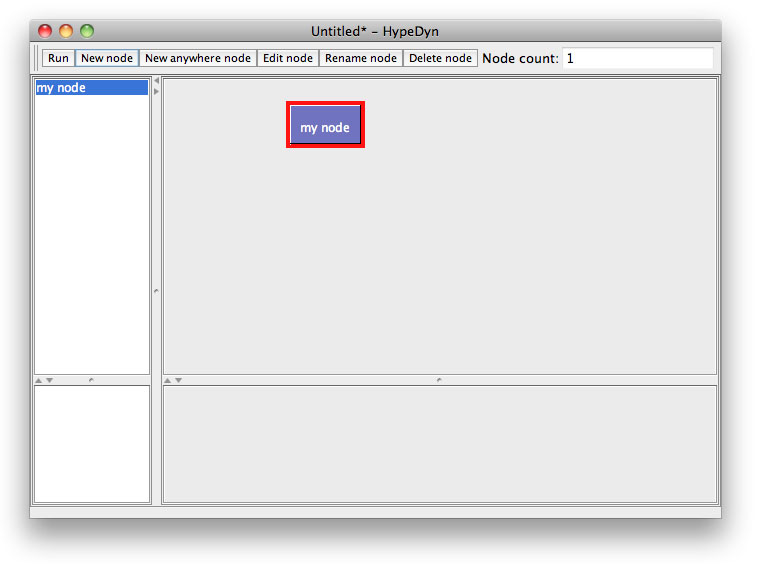
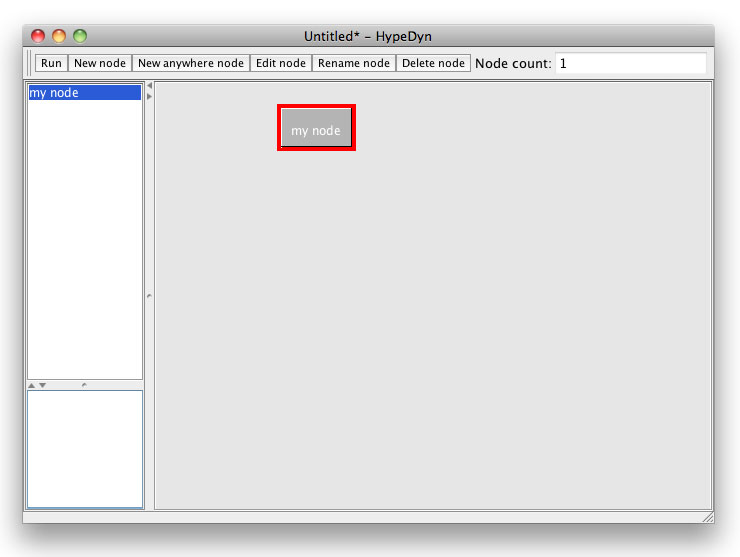
update help files

Changed region(s): [[0.0, 0.0305, 0.9946, 1.0]]

diff --git a/src/hypedyn/help/main_window.html b/src/hypedyn/help/main_window.html
@@ -39,8 +39,7 @@
     
     <p>The toolbar at the top of the window contains commonly used functions. These functions are also acccessible from the menubar.</p>
     
-    <p>The <em>node list</em> at the top left of the main window contains a list of all the nodes in the story. The <em>map view</em> to the right of the node list contains two
-    panes. The top pane displays all the regular nodes, whereas the lower pane displays all the anywhere nodes. The map view may be zoomed in and out using the menu items in the <b>View</b> menu. At the lower left, below the node list, is the <em>fact list</em>, which displays all the facts in the story.</p>	
+    <p>The <em>node list</em> at the top left of the main window contains a list of all the nodes in the story. The <em>map view</em> to the right of the node list displays all the nodes together with the links between the nodes. The map view may be zoomed in and out using the menu items in the <b>View</b> menu. At the lower left, below the node list, is the <em>fact list</em>, which displays all the facts in the story.</p>	
     
     <p><h4>Nodes</h4></p>
     
@@ -48,7 +47,7 @@
     
 <p><img src="images/new_node1.jpg" alt="new node" width="250"/><img src="images/new_node2.jpg" alt="new node" width="250"/></p>
 
-<p>To create a new <em>anywhere node</em>, use the <b>New Anywhere Node</b> button or the <b>New Anywhere Node</b> menu item. Anywhere nodes appear in the lower pane in the map view. Anywhere nodes will be discussed in more detail in the <a href="anywhere_nodes.html" title="Anywhere Nodes">Anywhere Nodes</a> section.</p>
+<p>To create a new <em>anywhere node</em>, use the <b>New Anywhere Node</b> button or the <b>New Anywhere Node</b> menu item. Anywhere nodes also appear in the map view, and are coloured a darker grey than regular nodes. Regular nodes can be changed into anywhere nodes, and vice versa, at any time. Anywhere nodes will be discussed in more detail in the <a href="anywhere_nodes.html" title="Anywhere Nodes">Anywhere Nodes</a> section.</p>
 
     <p>Nodes may be selected by clicking on the node in the node list or in the map view. The selected node will be highlighted in both the node list and the map view. Nodes may be dragged around and repositioned in the map view. Note that the position of nodes in the map view is for the author's reference only, and has no impact on the story. You can arrange nodes as you like, to help keep track of the structure of your story and the relationship between nodes.</p>
     

diff --git a/src/hypedyn/help/rule_editor.html b/src/hypedyn/help/rule_editor.html
@@ -63,11 +63,9 @@
     
 	<p><img src="images/actions.jpg" width=600 alt="Actions" /></p>
 
-    <p>The types of actions available include <em>Follow link to</em>, <em>Show in popup</em>, <em>Update text</em>, and <em>Update fact</em>. <em>Follow link to</em> is activated when a link is clicked, and takes the reader to the specified node. <em>Show in popup</em> shows the specified node in a popup, overlaid on top of the current node. <em>Update text</em> and <em> Update fact</em> will be discussed in the <a href="conditional_text.html" title="Conditional text">Conditional Text</a> and <a href="facts.html" title="Facts">Facts</a> sections.</p> 
-    
-    <p>For node rules, and for link rules on anywhere nodes, the <em>Follow link to</em> and <em>Show in popup</em> actions are not available.</p>
-    
-    <p><h4>Triggering rules</h4></p>
+    <p>The types of actions available include <em>Follow link to</em>, <em>Show in popup</em>, <em>Update text</em>, <em>Update fact</em>, and <em>Enable links to this node from anywhere</em>. <em>Follow link to</em> is activated when a link is clicked, and takes the reader to the specified node. <em>Show in popup</em> shows the specified node in a popup, overlaid on top of the current node. </p>
+    <p><em>Update text</em> and <em> Update fact</em> will be discussed in the <a href="conditional_text.html" title="Conditional text">Conditional Text</a> and <a href="facts.html" title="Facts">Facts</a> sections. <em>Enable links to this node from anywhere</em> will be discussed in the <a href="anywhere_nodes.html" title="Anywhere Nodes">Anywhere Nodes</a> section. For node rules, the <em>Follow link to</em> and <em>Show in popup</em> actions are not available. <em>Enable links to this node from anywhere</em> is only available in node rules.</p>
+<p><h4>Triggering rules</h4></p>
         
     <p>When a rule is triggered depends on whether it is associated with a link or a node, and what type of actions are contained in the rule. For node rules, all rules are triggered when a node is entered. For link rules, any rules containing <em>Follow link to</em>, <em>Show popup in</em> and <em>Update fact</em> actions are triggered when a link is clicked. Any rules containing the <em>Update text</em> action are triggered when a node is entered or refreshed. When a node is entered, node rules are triggered before link rules.</p>
 

diff --git a/src/hypedyn/help/anywhere_nodes.html b/src/hypedyn/help/anywhere_nodes.html
@@ -44,7 +44,7 @@
     
     <p><img src="images/anywhere_nodes.jpg" width=600 alt="Anywhere nodes" /></p>
 
-    <p>Note that anywhere nodes can contain links with rules having <em>Update text</em> and <em>Update fact</em> actions, but may not have <em>Follow link to</em> or <em>Show in popup</em> actions. As a result, once a reader "enters" an anywhere node, there is no way for the reader to get back to the "normal" nodes in a story other than by using the <b>Back</b> button.</p>
+    <p>Note that a regular node will become an anywhere node if at least one of its node rules contains the <em>Enable links to this node from anywhere</em> action. If all the <em>Enable links to this node from anywhere</em> actions are deleted from an anywhere node, it will become a regular node.</p>
         
     </div>
 
